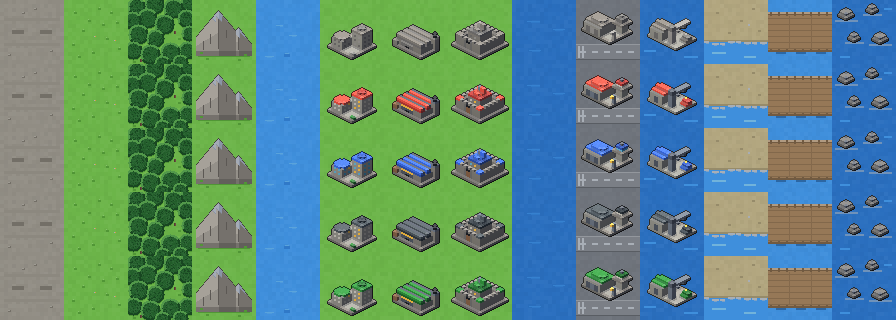
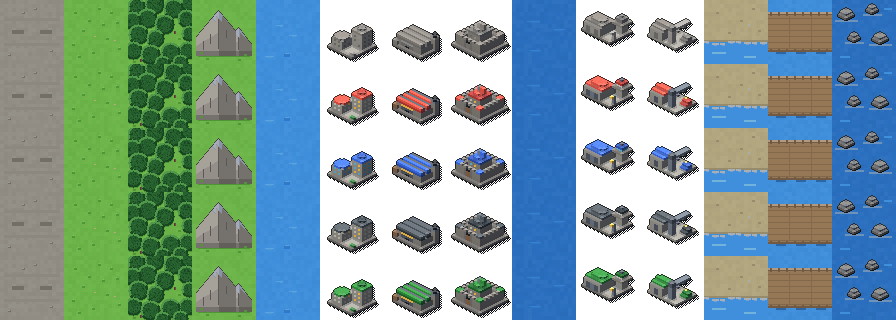
Ship the five property columns as transparent overlays (#13)
A property tile baked the plains green into its cell, so a city standing
on road, beach or apron wore a green square (design review rounds 4-5).
The five columns now carry the building, its own base plate and a
dithered drop shadow, and nothing else; the board paints the ground under
them and the building reads as an object on it.

The ground the consumer paints is the DEFAULT ground — plains, exactly
what these cells used to bake, so the look on grass is unchanged and no
map format learns about per-context ground. preview_map.png composes it
that way. terrain_atlas.png is RGBA now; the airport's runway and the
port's harbour water went with their ground plates.

The shadow is opaque dither on one checkerboard phase, never partial
alpha — the units' rule, held here for the same reason. PROPERTY_ANCHOR
is the one statement of where a building stands, read by the atlas tile
and by the exported iso_buildings cell, which stay a shadow apart.

The highlight-share gate goes back to ground only: a property cell has no
ground left to hold, and how far a building may reach into the unit band
is BUILDING_KEY_CEILING's question, asked on the same pixels. The colour
ceiling (220) and the key ceiling still gate the properties and both pass
with more headroom than before (209 -> 184 colours on the worst cell).

Rebased onto the river shores (#12): the snapshots are regenerated with
both changes rather than taking either side, so preview_map.png carries
[…]

Changed region(s): [[0.3438, 0.0, 0.5938, 1.0], [0.625, 0.0, 0.8125, 1.0]]

diff --git a/tests/test_generated_output.py b/tests/test_generated_output.py
@@ -107,13 +107,14 @@ class AtlasContract(unittest.TestCase):
         self.assertEqual(img.size, (1152, 320))
         self.assertEqual(img.mode, "RGBA")
 
-    def test_terrain_atlas_is_14_by_5_rgb_cells(self):
+    def test_terrain_atlas_is_14_by_5_rgba_cells(self):
         img = atlas.build_terrain_atlas()
         self.assertEqual(
             img.size, (len(terrain.TERRAIN_ORDER) * 64, len(FACTIONS) * 64)
         )
         self.assertEqual(img.size, (896, 320))
-        self.assertEqual(img.mode, "RGB")
+        # RGBA, not RGB: the property columns carry alpha — see PropertyOverlays.
+        self.assertEqual(img.mode, "RGBA")
 
     def test_every_atlas_row_renders_its_own_faction(self):
         img = atlas.build_units_atlas()
@@ -244,8 +245,14 @@ class ValueCeiling(unittest.TestCase):
                 median = statistics.median(terrain.luminance(c) for c in px)
                 self.assertLess(median, TERRAIN_MEDIAN_CEILING)
 
-    def test_tiles_keep_their_highlight_share_off_the_unit_band(self):
+    def test_grounds_keep_their_highlight_share_off_the_unit_band(self):
+        # Ground only. A property cell has no ground left to hold — it is a
+        # building and its shadow on transparent pixels — and how much of a
+        # building may reach into the unit band is the building ceiling's
+        # question, asked one test below on the same pixels.
         for tid, fac, px in self._tiles():
+            if tid in terrain.PROPERTY:
+                continue
             with self.subTest(tile=tid, faction=fac.key):
                 share = share_above(px, TERRAIN_VALUE_CEILING)
                 self.assertLessEqual(share, self.TERRAIN_HIGHLIGHT_SHARE)
@@ -455,6 +462,89 @@ class TerrainPalette(unittest.TestCase):
                     self.assertLessEqual(
                         self._colours(terrain.tile(tid, fac)), self.PROPERTY_CEILING
                     )
+
+
+class PropertyOverlays(unittest.TestCase):
+    """A property is a building on transparent ground, not a tile of grass.
+
+    Design review rounds 4 and 5: the five property columns baked the plains
+    green into their cells, so a city on road or beach wore a green square.
+    They now carry the building, its base plate and its dithered shadow, and
+    nothing else; the board paints the ground under them.
+    """
+
+    def _cell(self, tid: str, fac) -> Image.Image:
+        return terrain.tile(tid, fac).convert("RGBA")
+
+    def test_only_the_property_columns_carry_transparency(self):
+        img = atlas.build_terrain_atlas()
+        px = img.load()
+        for col, tid in enumerate(terrain.TERRAIN_ORDER):
+            clear = sum(
+                1
+                for y in range(img.height)
+                for x in range(col * CELL, col * CELL + CELL)
+                if px[x, y][3] == 0
+            )
+            with self.subTest(tile=tid):
+                if tid in terrain.PROPERTY:
+                    self.assertGreater(clear, 0)
+                else:
+                    self.assertEqual(clear, 0)
+
+    def test_a_property_leaves_its_corners_to_the_ground(self):
+        # The corners are the ground plate's, wherever the building stands.
+        for tid in sorted(terrain.PROPERTY):
+            for fac in FACTIONS:
+                px = self._cell(tid, fac).load()
+                for corner in (
+                    (0, 0),
+                    (CELL - 1, 0),
+                    (0, CELL - 1),
+                    (CELL - 1, CELL - 1),
+                ):
+                    with self.subTest(tile=tid, faction=fac.key, corner=corner):
+                        self.assertEqual(px[corner][3], 0)
+
+    def test_property_cells_carry_no_semi_transparent_pixel(self):
+        # The units' rule, held for the terrain sheet's buildings too: a soft
+        # alpha edge is a halo on the board and a grey stain in the cut-in.
+        for tid in sorted(terrain.PROPERTY):
+            for fac in FACTIONS:
+                with self.subTest(tile=tid, faction=fac.key):
+                    cell = self._cell(tid, fac)
+                    raw = cell.tobytes()
+                    self.assertEqual({raw[i] for i in range(3, len(raw), 4)}, {0, 255})
+
+    def test_the_shadow_is_an_opaque_dither(self):
+        for tid in sorted(terrain.PROPERTY):
+            for fac in FACTIONS:
+                cell = self._cell(tid, fac)
+                px = cell.load()
+                shadow = [
+                    (x, y)
+                    for y in range(CELL)
+                    for x in range(CELL)
+                    if px[x, y] == (*terrain.SHADOW, 255)
+                ]
+                with self.subTest(tile=tid, faction=fac.key):
+                    self.assertGreater(len(shadow), 0)
+                    # every shadow pixel on one phase of the checkerboard
+                    self.assertEqual({(x + y) % 2 for x, y in shadow}, {0})
+
+    def test_the_tile_and_the_exported_cell_place_one_building(self):
+        # The atlas tile is the exported iso_buildings cell plus a shadow, so
+        # the two surfaces cannot drift into placing the same building twice.
+        for tid in sorted(terrain.PROPERTY):
+            for fac in FACTIONS:
+                tile_px = self._cell(tid, fac).load()
+                cell_px = atlas.building_cell(tid, fac).convert("RGBA").load()
+                with self.subTest(tile=tid, faction=fac.key):
+                    for y in range(CELL):
+                        for x in range(CELL):
+                            if cell_px[x, y][3] == 0:
+                                continue
+                            self.assertEqual(tile_px[x, y], cell_px[x, y])
 
 
 class AutotileMasks(unittest.TestCase):

diff --git a/spritegen/terrain.py b/spritegen/terrain.py
@@ -6,8 +6,9 @@ the ceiling below so scenery never out-keys an army; the detail on top
 adds. Ground fills are seamless — repeated tiles butt with no
 border treatment (design review 2026-08-13: the old darkened-edge
 convention read as a seam grid over any open field). Non-property tiles
-are identical on every faction row; property tiles compose a
-faction-tinted voxel building onto their ground.
+are identical on every faction row; property tiles are transparent
+overlays — a faction-tinted voxel building and its shadow, with the ground
+around them left empty for the board to paint (see `property_overlay`).
 """
 
 from __future__ import annotations
@@ -55,7 +56,6 @@ WATER_DARK = (42, 111, 191)  # 2a6fbf
 WATER_LIGHT = (113, 179, 219)  # L168
 SAND = (178, 166, 127)  # L166
 SAND_DARK = (150, 139, 106)  # L139
-ASPHALT = (111, 116, 124)  # 6f747c
 SNOW = (168, 174, 182)  # cool foam/marking grey, L173
 
 # Woods canopy tones (design review round 3): the tile is a filled canopy
@@ -421,34 +421,62 @@ def reef() -> Image.Image:
 # ---------------------------------------------------------------------------
 
 
-def _grass_lot(fac: Faction, building: str, salt: int) -> Image.Image:
-    t = _ground(GRASS, salt)
-    prop = render(buildings.model_for(building, fac), fac)
-    _paste_prop(t, prop, 32, 61)
-    return t
+# Where each building stands in its cell: (centre x, ground line). One
+# statement, read by the atlas tiles and by the iso_buildings cells, so the
+# two can never place the same building differently.
+PROPERTY_ANCHOR: dict[str, tuple[int, int]] = {
+    "city": (32, 61),
+    "base": (32, 61),
+    "hq": (32, 61),
+    "airport": (31, 46),
+    "port": (32, 52),
+}
+
+# The shadow a building drops on whatever ground it is standing on: the
+# building's own silhouette, shifted down-right away from the light every
+# model is lit from, in the same dither tone the unit cells cast.
+SHADOW = (16, 18, 24)
+SHADOW_OFFSET = (2, 2)
 
 
-def airport(fac: Faction) -> Image.Image:
-    t = _ground(ASPHALT, 10, grain=0.024)
-    # runway strip across the lower apron
-    _rect(t, 0, 44, 64, 16, _lit(ASPHALT, 0.08))
-    _rect(t, 0, 44, 64, 1, _lit(ASPHALT, 0.25))
-    _rect(t, 0, 59, 64, 1, darken(ASPHALT, 0.2))
-    for sx in range(4, 64, 12):
-        _rect(t, sx, 51, 6, 2, SNOW)  # centreline dashes
-    _rect(t, 2, 46, 2, 12, SNOW)  # threshold bars
-    _rect(t, 6, 46, 2, 12, SNOW)
-    prop = render(buildings.model_for("airport", fac), fac)
-    _paste_prop(t, prop, 31, 46)
-    return t
+def _drop_shadow(cell: Image.Image, sprite: Image.Image, x0: int, y0: int) -> None:
+    """Stamp `sprite`'s shadow into `cell`, as a hard 50% dither.
+
+    Opaque pixels on a checkerboard, never partial alpha: the sheet is read
+    at 16px on the board and blown up in the cut-in, and a soft alpha edge is
+    a halo at one end and a grey stain at the other (the units' contact
+    shadows are the same dither for the same reason). Half the pixels missing
+    is what lets the ground the board paints underneath read through.
+    """
+    px = cell.load()
+    sp = sprite.load()
+    dx, dy = SHADOW_OFFSET
+    for yy in range(sprite.height):
+        for xx in range(sprite.width):
+            if sp[xx, yy][3] == 0:
+                continue
+            tx, ty = x0 + xx + dx, y0 + yy + dy
+            if not (0 <= tx < CELL and 0 <= ty < CELL) or (tx + ty) % 2:
+                continue
+            px[tx, ty] = (*SHADOW, 255)
 
 
-def port(fac: Faction) -> Image.Image:
-    t = _water_base(True, 11)
-    _rect(t, 4, 50, 12, 2, WATER)  # harbour ripples
-    _rect(t, 44, 56, 14, 2, WATER)
-    prop = render(buildings.model_for("port", fac), fac)
-    _paste_prop(t, prop, 32, 52)
+def property_overlay(bid: str, fac: Faction) -> Image.Image:
+    """A property cell: the building and its shadow, on transparent ground.
+
+    Design review rounds 4 and 5: baking the plains green into these five
+    columns painted a green square around every city standing on road, beach
+    or asphalt. The building keeps its own base plate — the plate is part of
+    the model, the isometric footprint it stands on — and everything around
+    it is left empty, so the board draws the ground and the building reads as
+    an object sitting on it rather than as a tile of its own.
+    """
+    t = Image.new("RGBA", (CELL, CELL), (0, 0, 0, 0))
+    prop = render(buildings.model_for(bid, fac), fac)
+    cx, bottom = PROPERTY_ANCHOR[bid]
+    x0, y0 = cx - prop.width // 2, bottom - prop.height
+    _drop_shadow(t, prop, x0, y0)
+    place_in_cell(t, prop, x0, y0)
     return t
 
 
@@ -486,18 +514,14 @@ _PLAIN_TILES = {
     "bridge": bridge,
     "reef": reef,
 }
-_LOT_SALTS = {"city": 12, "base": 13, "hq": 14}
 
 
 def tile(tid: str, fac: Faction) -> Image.Image:
-    """One 64x64 RGBA tile. Non-property tiles ignore the faction; every
-    ground here is authored under TERRAIN_VALUE_CEILING and the buildings a
-    property tile carries under BUILDING_KEY_CEILING, so nothing on the board
-    needs dimming after the fact."""
+    """One 64x64 RGBA tile. Non-property tiles ignore the faction and fill
+    their cell; a property tile is a transparent overlay. Every ground here
+    is authored under TERRAIN_VALUE_CEILING and the buildings a property tile
+    carries under BUILDING_KEY_CEILING, so nothing on the board needs dimming
+    after the fact."""
     if tid in PROPERTY:
-        if tid == "airport":
-            return airport(fac)
-        if tid == "port":
-            return port(fac)
-        return _grass_lot(fac, tid, _LOT_SALTS[tid])
+        return property_overlay(tid, fac)
     return _PLAIN_TILES[tid]()

diff --git a/spritegen/atlas.py b/spritegen/atlas.py
@@ -4,10 +4,11 @@ units_atlas.png   — 18 columns x 5 rows of 64px RGBA cells (1152x320),
                     columns in data/units atlas_col order, rows in
                     SideIdentity order (neutral, meridian, aurora, iron,
                     verdant).
-terrain_atlas.png — 14 columns x 5 rows of 64px RGB cells (896x320),
+terrain_atlas.png — 14 columns x 5 rows of 64px RGBA cells (896x320),
                     columns in tools/generate_tiles.gd order; non-property
-                    columns repeat one tile down all rows, property columns
-                    are faction-tinted per row.
+                    columns repeat one opaque tile down all rows, property
+                    columns are faction-tinted per row and transparent
+                    around the building, for the board to paint under.
 unit cells        — <unit id>_<team>.png, 64x64 RGBA, the inputs
                     tools/paste_unit_sprites.gd consumes.
 building cells    — <building>_<team>.png, 64x64 RGBA transparent-backed
@@ -60,7 +61,7 @@ def build_terrain_atlas() -> Image.Image:
             one = terrain.tile(tid, FACTIONS[0])
             for row in range(len(FACTIONS)):
                 atlas.paste(one, (col * CELL, row * CELL))
-    return atlas.convert("RGB")
+    return atlas
 
 
 def building_cell(bid: str, fac: Faction) -> Image.Image:
@@ -70,12 +71,7 @@ def building_cell(bid: str, fac: Faction) -> Image.Image:
     # materials for greys, and the exported cells must match the tiles.
     sprite = render(buildings.model_for(bid, fac), fac)
     out = Image.new("RGBA", (CELL, CELL), (0, 0, 0, 0))
-    if bid == "airport":
-        cx, bottom = 31, 46
-    elif bid == "port":
-        cx, bottom = 32, 52
-    else:
-        cx, bottom = 32, 61
+    cx, bottom = terrain.PROPERTY_ANCHOR[bid]
     place_in_cell(out, sprite, cx - sprite.width // 2, bottom - sprite.height)
     return out
 
@@ -220,7 +216,14 @@ def build_demo() -> Image.Image:
                 fac_row = fac_for_prop.get((x, y), 1 if x < 5 else 2)
                 fac = FACTIONS[fac_row if tid in terrain.PROPERTY else 0]
                 tile = terrain.tile(tid, fac)
-            img.paste(tile.convert("RGBA"), (x * CELL, y * CELL))
+            if tid in terrain.PROPERTY:
+                # A property ships as a transparent overlay, so the ground
+                # under it is the board's to paint — the default ground,
+                # which is what these cells used to bake.
+                img.paste(terrain.tile("plains", FACTIONS[0]), (x * CELL, y * CELL))
+                img.alpha_composite(tile, (x * CELL, y * CELL))
+            else:
+                img.paste(tile.convert("RGBA"), (x * CELL, y * CELL))
     for uid, fac_row, x, y in _DEMO_UNITS:
         img.alpha_composite(unit_cell(uid, FACTIONS[fac_row]), (x * CELL, y * CELL))
     return img

diff --git a/sprite_generator.py b/sprite_generator.py
@@ -9,7 +9,8 @@ the same bytes.
 Outputs (under --out, default ./out):
   units_atlas.png        1152x320 RGBA — drop-in for assets/tiles/units_atlas.png
   units_atlas_b.png      ambient animation frame B (rotors swept, air/sea bobbed)
-  terrain_atlas.png       896x320 RGB  — drop-in for assets/tiles/terrain_atlas.png
+  terrain_atlas.png       896x320 RGBA — drop-in for assets/tiles/terrain_atlas.png
+                          (the five property columns are transparent overlays)
   units/<id>_<team>.png   64x64 RGBA cells for tools/paste_unit_sprites.gd
   iso_buildings/<id>_<team>.png  64x64 RGBA property buildings
   preview_units.png / preview_terrain.png / preview_map.png  review sheets

diff --git a/README.md b/README.md
@@ -31,6 +31,14 @@ neutral's slate theme included. Weapon silhouettes follow each unit's
 unarmed). Property terrains (city, base, hq, airport, port) are tinted per
 row; every other terrain repeats one tile down its column.
 
+The five property columns are **transparent overlays**: the building, its
+base plate and a dithered drop shadow, with the ground around them left
+empty. Baking the plains green into those cells put a green square around
+every city standing on road or beach; the board paints the ground under a
+property and the building reads as an object on it. Consumers compose
+default ground first, then the property cell — `preview_map.png` does
+exactly that.
+
 Units are painted out of **indexed ramps**: six slots per faction — S0
 contour, S1 under, S2 shadow, S3 body, S4 top, S5 rim — plus one shared
 gunmetal ramp and a small derived ramp per fixed accent. A face normal picks
@@ -97,7 +105,7 @@ python3 -m venv .venv
 | File | Contract |
 | --- | --- |
 | `units_atlas.png` | 1152x320 RGBA — drop-in `assets/tiles/units_atlas.png` |
-| `terrain_atlas.png` | 896x320 RGB — drop-in `assets/tiles/terrain_atlas.png` |
+| `terrain_atlas.png` | 896x320 RGBA — drop-in `assets/tiles/terrain_atlas.png`; property columns carry alpha |
 | `units/<id>_<team>.png` | 90 cells, the inputs `tools/paste_unit_sprites.gd` reads |
 | `iso_buildings/<id>_<team>.png` | 25 property-building cells for `assets/sprites/iso_buildings` |
 | `preview_units.png`, `preview_terrain.png` | 2x atlas contact sheets on checkerboard |
